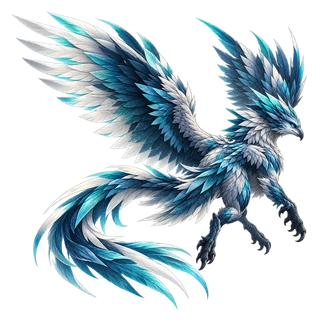
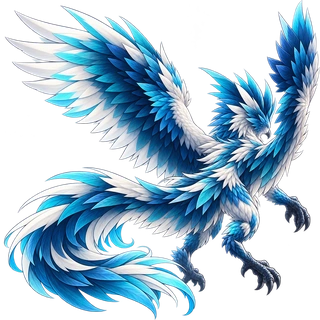
assets: Ailevent joueur modele et deux animations validees

diff --git a/docs/LAB_CURRENT_WORK.md b/docs/LAB_CURRENT_WORK.md
@@ -1,3 +1,12 @@
+## 2026-10-25 — Ailevent joueur dos (10f vol / 12f attaque, remplacement image joueur)
+
+- Source : _incoming/AILEVENT_DOS_2_ANIMATIONS_PLUS_MODELE_JOUEUR.zip ; SHA256 5a72b3644c8bc99ffe7f00c39f51551398824ca0d2651f9f6d7bea4f4cd25ee8 ; Git blob aa635e35374b685fa6d8bc2e507317e6779f0af7.
+- Base : global-assets@6b3162ec087c3e2b46f03cdb7fc905ee7c24e13a ; checkpoint/global-assets-before-ailevent-dos-2026-10-25 ; work/global-assets-ailevent-dos-2026-10-25.
+- 22 PNG RGBA 512px, deux atlas WebP, previews d'origine, deux manifestes, source modèle PNG identique à l'image validée, nouveau runtime player WebP. Deux IDs catalogue.
+- Protégés : opponent/icon, autres créatures, animations déjà validées, moteurs, UI, données auteur, main, gh-pages. Validation mobile distincte.
+
+---
+
 ## 2026-10-25 — Guêpe cybernétique FACE : nage/vol et attaque, 12 frames nettoyées
 
 - Source : \`_incoming/GUEPE_CYBERNETIQUE_FACE_MOUVEMENT_ATTAQUE_12F_NETTOYES.zip\`, taille 11948531, SHA256 082eb38273f46f306fef3076bfac287985a3bc38d057e00c8e5e51a04a48b4fa, Git blob c86cd66adedbed199b73d93c9c909eab4556a24c.
